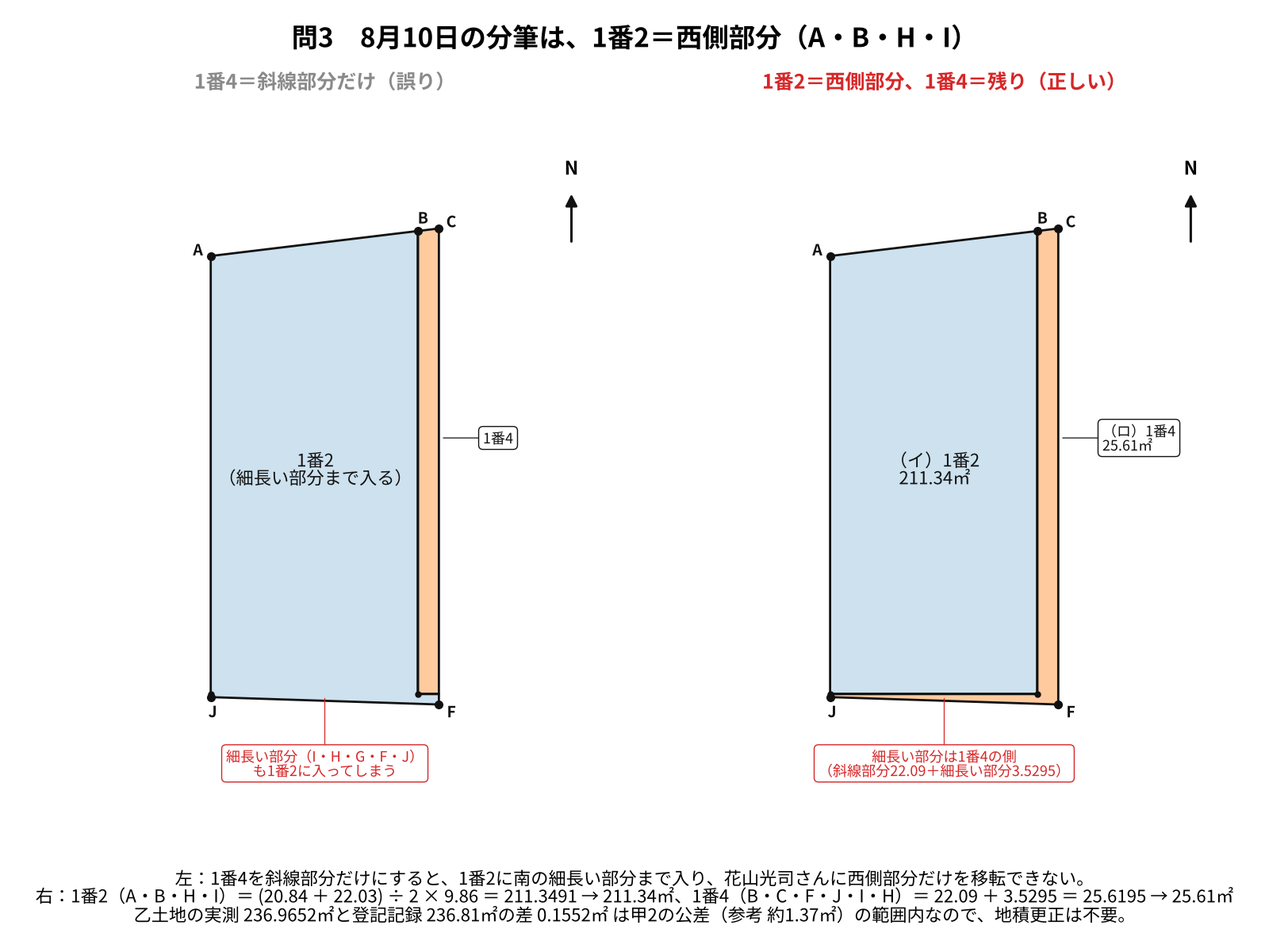
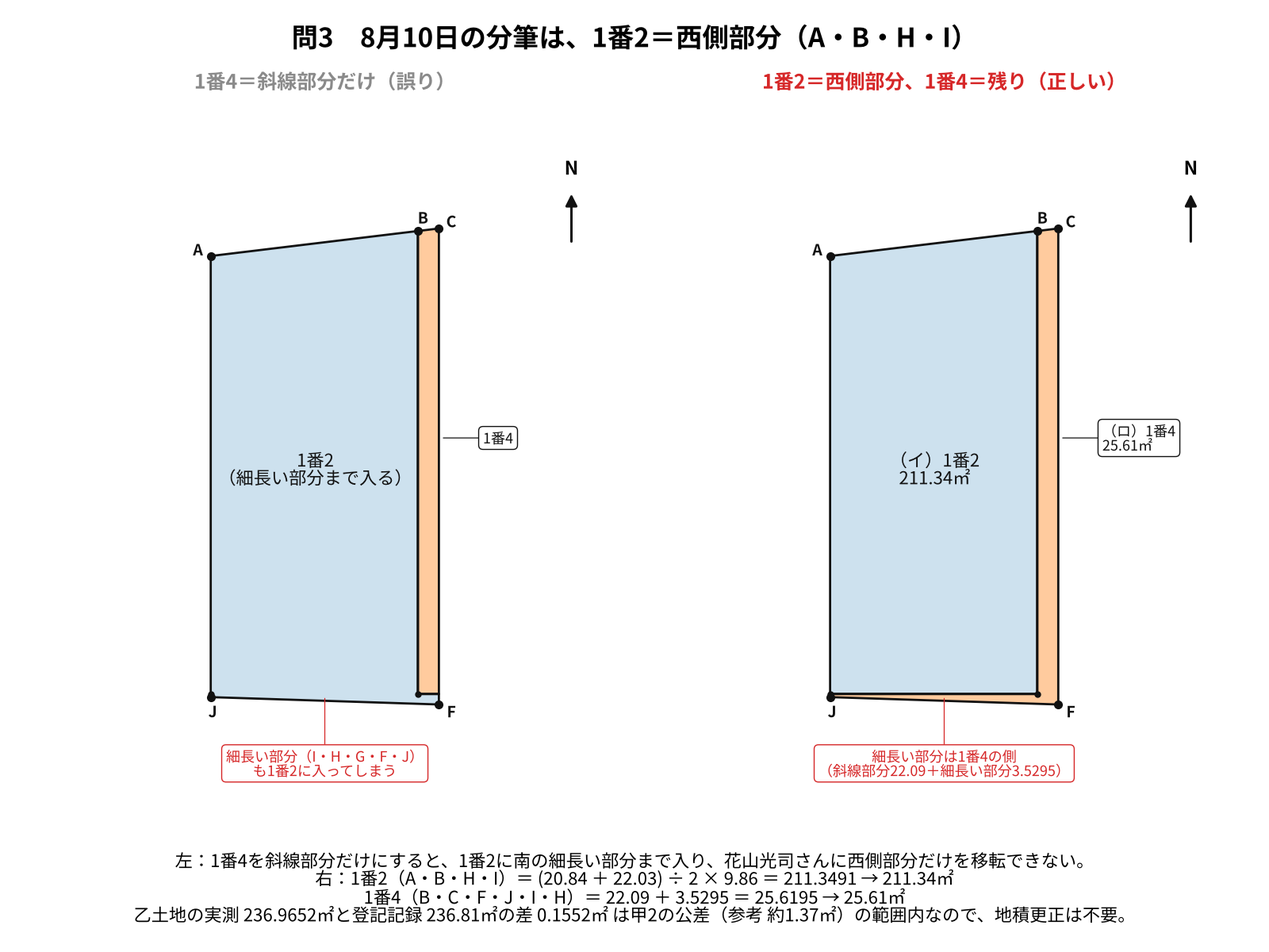
R5/Q21 品質チェックの知見を反映：チェックリスト6-2・6-3・§0と改善記録、README・CLAUDE.md、zu_helpersに説明文の長さ警告、図9の説明文を改行
Claude-Session: https://claude.ai/code/session_01Nmmm3CJ5ii4S7aGmHkd9qP

Changed region(s): [[0.0312, 0.8942, 0.9688, 0.9558]]

diff --git a/note-articles-Kijyutsu/R5/Q21/zu/draw_R5_dai21mon_kaisetsuzu.py b/note-articles-Kijyutsu/R5/Q21/zu/draw_R5_dai21mon_kaisetsuzu.py
@@ -219,7 +219,7 @@ ALL_PROBLEMS += save(fig, [z], 'R5_dai21mon_zu08_H_kousa.png')
 # =====================================================================
 fig, (ax1, ax2) = new_figure('問3　8月10日の分筆は、1番2＝西側部分（A・B・H・I）',
                              '左：1番4を斜線部分だけにすると、1番2に南の細長い部分まで入り、花山光司さんに西側部分だけを移転できない。\n'
-                             '右：1番2（A・B・H・I）＝ (20.84 ＋ 22.03) ÷ 2 × 9.86 ＝ 211.3491 → 211.34㎡、1番4（B・C・F・J・I・H）＝ 22.09 ＋ 3.5295 ＝ 25.6195 → 25.61㎡\n'
+                             '右：1番2（A・B・H・I）＝ (20.84 ＋ 22.03) ÷ 2 × 9.86 ＝ 211.3491 → 211.34㎡\n1番4（B・C・F・J・I・H）＝ 22.09 ＋ 3.5295 ＝ 25.6195 → 25.61㎡\n'
                              '乙土地の実測 236.9652㎡と登記記録 236.81㎡の差 0.1552㎡ は甲2の公差（参考 約1.37㎡）の範囲内なので、地積更正は不要。',
                              ncols=2)
 zs = []

diff --git a/note-articles-Kijyutsu/tools/zu_helpers.py b/note-articles-Kijyutsu/tools/zu_helpers.py
@@ -427,6 +427,12 @@ def new_figure(title, caption, w=16, h=12, dpi=100, ncols=1, width_ratios=None):
     fig.patch.set_facecolor('white')
     fig.suptitle(title, fontsize=24, weight='bold', y=0.975)
     fig.text(0.5, 0.03, caption, ha='center', va='bottom', fontsize=16, wrap=True)
+    # 説明文は日本語だと wrap=True でも折り返されず、長いと画像の端で切れる（2026-10-26、R5/Q21。図4・13・15で発生）。
+    # 全角換算で1行あたり約62字を超える行があれば警告する（超えたら自分で改行する）。
+    for ln in caption.split('\n'):
+        zen = sum(1.0 if (ord(ch) > 0x2E80 or ch in '（）「」、。') else 0.55 for ch in ln)  # 全角換算の字数
+        if zen * 16 * dpi / 72 > w * dpi * 0.97:
+            print(f'[説明文が長い] 1行が画像の幅をこえそう（全角換算{zen:.0f}字）：{ln[:30]}…')
     fig.subplots_adjust(left=0.03, right=0.97, top=0.90, bottom=0.12, wspace=0.08)
     return fig, (axes if ncols > 1 else [axes])
 

diff --git a/note-articles-Kijyutsu/qa-checklist-kijutsu.md b/note-articles-Kijyutsu/qa-checklist-kijutsu.md
@@ -23,7 +23,7 @@
 - 付属プロンプト：登記申請書画像プロンプト、解説図プロンプト
 - 問題PDF（全ページ）と答案用紙PDF
 - 予備校の解答例（アガルート等）
-- 作業環境（2026-10-08追加、R2/Q21・H29/Q21）：作図・画像の書き出しの前に、日本語フォント（`fc-list | grep -c "Noto Sans CJK"` が0なら `apt-get install -y fonts-noto-cjk` と `rm -rf ~/.cache/matplotlib`）、matplotlib・playwright・pymupdf、Chromium（`/opt/pw-browsers`）がそろっているか。`findfont: Failed to find font weight bold` が出たまま描いた図は、太字が細字になり重なりの検査も別のフォントで通っているので、入れてから描き直す
+- 作業環境（2026-10-08追加、R2/Q21・H29/Q21）：作図・画像の書き出しの前に、日本語フォント（`fc-list | grep -c "Noto Sans CJK"` が0なら `apt-get install -y fonts-noto-cjk` と `rm -rf ~/.cache/matplotlib`）、matplotlib・playwright・pymupdf、Chromium（`/opt/pw-browsers`）がそろっているか。`findfont: Failed to find font weight bold` が出たまま描いた図は、太字が細字になり重なりの検査も別のフォントで通っているので、入れてから描き直す。`import PIL` が `cannot import name '_imaging'` で落ちるときは、システムの dist-packages が古いPILで shadow している（2026-10-26、R5/Q21の新しいコンテナ）：`python3 -m pip install --ignore-installed --target /usr/local/lib/python3.11/dist-packages pillow` で入れ直す（素の `pip` は別のPythonに入るので、必ず `python3 -m pip`）
 
 **解答例の使い方の約束**
 
@@ -419,6 +419,10 @@
 
 5. **図を足したら、会話を足し、PNGの番号を挿入順に振り直す（2026-10-26、H20/Q21）**：図を会話の直後に置くために、(a) 1つのセリフの途中に図を入れたいときは、セリフを2つに分けて間に藍子（または先生）の一言を入れる（同じ話者の連続になるので、マーカーをはさむ連続は `lint_note_article.py` が違反にする）、(b) 計算の前に図を見せたいときは、図の後に藍子の一言（「式にまとめると、こうなりますか？」）を入れて計算に入る、(c) 図の位置が前後して、PNG名の番号が記事の挿入順と食い違ったら、`git mv` ではなく作図スクリプトのファイル名を入れ替えて描き直し、照合スクリプトの `ORDER` に「図番号（PNG名）が記事の順に1〜Nで並ぶ」検査を置く（H20/Q21の「代位原因の日付」と「代位の関係図」が逆になっていた）
 6. **図の中に足す数値・日付・番号は、確かめられたものだけにする（2026-10-26、H20/Q21）**：照らし直しで図を足すとき、問題の本文が手元にない（添付が答案用紙だけ、など）ことがある。そのとき図に書く値は、(a) 記事・照合スクリプト・付属プロンプトにすでにある値、(b) 手元の資料で確かめた値、のどちらかだけにする。「受付番号」「離婚の年」「公差の表の他の列」のように、自分が書いたのに出どころを確かめられない細部は図に入れない（H20/Q21では、新しい図に自分で書いた「順位2番・第234号」「昭和27年に離婚」「公差の表の甲3〜乙3の値」が出どころを確かめられず、目視で気づいて削った。表の確かめられない列は「…」で省略し、見出しに「省略」と書く）
+7. **数値の判断の図は、その判断に使う数値が会話に出そろった後に置く（2026-10-26、R5/Q21）**：地積更正の要否の数直線は、実測（Conjg の面積）・分筆後の合計（台形）・誤った筆界での面積の3つを並べる。旧版は「乙土地の実測→公差の判定→分筆後の面積」の順で、公差の図を置く位置が判断の途中になり、図の数値が会話より先に出るおそれがあった。**改善方法**：図に載る数値を全部列挙し、会話のどこで出るかを見て、いちばん遅く出る数値の後に図を置く。会話の順序を入れ替えて、PNGの番号（挿入順）と記事の順を合わせる（番号を付け替えるより会話を組み替える方が読みやすいことが多い）
+8. **照合スクリプトの `prev_line` は、マーカー直前の「発言（話者の行からマーカーまで）」を調べる（2026-10-26、R5/Q21）**：図は箇条書きの答え（ア〜エ）やコードブロック（式の羅列）の直後に置くことが多い。マーカーの直前の1行だけを見ると、`- **エ**：J点` や ```` ``` ```` に決め手の語がなく誤ってNGになる。話者の行（`**トリ先生**` など）からマーカーまでを連結して、決め手の語を探す。まとめの項目を数えるときは、まとめの章にある時間配分の箇条書き（`- **1**：…`）を除く
+9. **座標を使わない整理図（時系列・注の仕分け・表）は、本文の一次資料と照合してから描く（2026-10-26、R5/Q21）**：注の仕分けの表を作るとき、問題文の注の文言を自分で要約すると、「注1：適法に行われ…」のように意味を取り違えたり、調査図素図の注（図の下の注）を問題文の注と混ぜたりしやすい。試験問題の画像（`public/kijutsu/{年度}-tochi/`）で注の本文を実際に読み、要約が正しいか確かめてから図に載せる。時系列の日付も問題文で確かめる（R5/Q21では、4月1日の契約・5月31日の解体完了・8月31日の約束・9月20日の工事完了と抵当権の抹消申請・9月29日の抹消完了・10月16日の申請をすべて問題文の画像で確認した）
+
 ### 6-3. 画像そのものの決まり（機械で確かめる）
 
 - **図の画像に図番を表示しない**：作図スクリプトのタイトル文字列（`new_figure(`・`fixed_figure(`・`fig.suptitle(` の引数。`heikou_figure(` や、放射の図のように引数のリストの中に書いたタイトルも拾うこと。2026-10-26、H22/Q21で最初の一括置換が漏れた）と、申請書・添削画像のHTMLの見出しに「図1」「画像2」などの通し番号がないか。番号は管理用（PNGファイル名、解説図プロンプトの「図N：」一覧、作図スクリプト内の識別子）にだけ使う。図を足す・振り直すときは、既存の図のタイトルに残っていた図番も消して描き直し、図番を消した図のほかは再生成してバイト単位で変わっていないことを確かめる。照合スクリプトで、作図スクリプトのタイトルに「図N」が一つも残っていないことを確かめる
@@ -442,6 +446,10 @@
 - **固定配置の図（`card_fig` などの箱・矢印・帯の図）は、キャンバスの縦横比から出した高さ `yh` に合わせて置く（2026-10-26、H20/Q22）**：作図スクリプトの座標は、横を100として縦を `yh ＝ 100 × 描画領域の高さ ÷ 幅` で数える。旧版の図は「縦が約56」の前提で絶対座標（`y ＝ 12`・`y ＝ 1.2` など）を直に書いていたが、実際の `yh` は43で、赤い結論の帯が絵に重なり、文字が箱からはみ出していた（重なりの自動検査は固定配置の図を調べないので0件のまま）。**改善方法**：①`card_fig` の既定の高さは `h ＝ 11.6`（`yh` が約56）にそろえ、絶対座標を使うときも `yh` からの差で書く。②固定配置の図は、書き出したら**全部をPNGで開いて見る**（重なり・はみ出し・上下の大きな空きを目で確かめる）。③上の帯が絵の下に出るときは、絵の上端を `yh − 11` 付近から始めて絵の高さを先に足し算する。④矢印で長く指す引き出し線が絵を斜めに横切るときは、赤枠で囲んで「赤枠＝…」と下に書く形に変える
 - **原本の罫線の測り方（2026-10-26、H20/Q22）**：スキャンした答案用紙は罫線が細く傾いているので、「暗い画素が8割以上の列」では線を拾えない。**文字のない行の帯**（記入欄の行・見出しの下の行）を選び、帯の平均の明るさの列ごとの谷（両側9画素の平均より18以上暗い極小）を線とする。枠の外周（その3）は、中央の帯の列平均と、左側の帯の行平均の最小を、期待位置の±4mmの窓で探し、1mm以内で一致するかを確かめる。照合スクリプトは、申請書の列の境界（`cols(...)` の引数）が原本から測った値と3画素以内で一致することを確かめる
 - **1つのわなに図が2枚、1枚に2つのわなは作らない（2026-10-26、H20/Q22）**：まとめを1項目1わなに分けたとき、同じ話題に図が2枚（例：敷地権の持分の図と割合の添削画像）あるなら、項目も2つに分けて図と1対1にする
+- **`new_figure` の説明文（caption）が長すぎて画像の端で切れる（2026-10-26、R5/Q21。3枚で発生）**：日本語は `wrap=True` でも折り返されず、1行が全角で約70字を超えると左右が切れる。`tools/zu_helpers.py` の `new_figure` が、全角換算で1行が画像の幅をこえそうなときは `[説明文が長い]` と警告を出すようにした。書き出したら標準出力の警告を見て、長い行は自分で `\n` で改行する。警告は重なりの自動検査とは別に出るので、`grep -E "説明文が長い|重なりの合計"` で両方を確かめる
+- **固定配置の表の図は、行の高さを「最も行数の多いセル」に合わせて取り、表の下の文字は表の最下端から計算して置く（2026-10-26、R5/Q21）**：注の仕分けの表の2つ目の表が、下の説明文にめり込んだ。表の行数が増えたら、行の高さを小さくするか、図の高さ（`board(h)` の h）を大きくする。土地の表示の5行の表は3行分のセルがあるので、行の高さを11・間隔12にして、文字が枠に触れないようにした
+- **作図スクリプトの `callout` は、点が図の端に近いと吹き出しが範囲の外に出る**：`fit` の `margin` を大きくし、`dirs` に図の内側（余白の広い側）の向きを先に並べる。R5/Q21では、東端のG点の吹き出しが範囲外になり、`margin=0.45`・`dirs=(-30,-50,-70,0)` で収まった。2点が近い辺長の数値（JI 0.15）は辺の中点に重なるので `callout` で外へ出す
+- **旧ルールの違反が残る土地の年度（2026-10-26 時点）**：作図スクリプトのタイトルに「図N」が残る年度は、H25（ユーザー指示で残す）・H26・H27・H28・H30・R1・R3・R4・R6。照らし直すときに、タイトルの図番を消して描き直し、照合スクリプトの図番を要求する逆向きの検査を直す（R5/Q21は2026-10-26に直した）
 
 ## 7. note表記ルールを確認する
 
@@ -492,6 +500,15 @@
 ## 改善記録（PDCA）
 
 チェックで見つかった誤りの種類と、指示書・執筆プロンプトへの反映を記録する。新しい記録は上に追加する。
+
+**2026-10-26　R5/Q21（土地・会話形式）を最新のチェック項目（6-2・6-3）で品質チェックし、足りない図を足した（ユーザー指示）**
+
+- 指示：「qa-checklist-kijutsu.md チェックの指示書に従って、品質チェックを実施してください。不足している画像は作成してgithubに保存してください。図を追加した場合は挿入する位置に応じて解説の会話を追加したり、説明の会話の区切り位置を調整したりして、スムーズに読者が理解でき、計算過程も図と連動して明快にわかるようにしてください。今回の改善過程で得られた知見や新たらしい対象法は、PDCAをまわして、有効なものはチェック指示書に追記して、自動更新するようにしてください。」（添付：R5の答案用紙PDF。年度の指定はなく、添付からR5/Q21と判断した）
+- 旧版（2026-09-29作成・追加作業済み）の状態：解説図10枚・添削1・完成形4（マーカー15か所）。見つかった不足と不具合：①10枚すべてのタイトルに作成当時の「図N」が画像に焼き込まれていた（2026-10-07〜08のルール違反。この年度の照合スクリプトも「図番が1〜10で揃う」ことを要求する逆向きの検査になっていなかったのは、そもそも図番を検査していなかったため）。②まとめが8項目で、2つのわなを1項目に書いたもの（「地積の端数は注9、335＋22.09も実測の357.70も誤り」「合筆の添付書類、登録免許税は2個」など）があった。会話の直後に専用の図がなかった論点が11：全体の時系列、注の仕分け、合筆で消えた中間の点は足して比べる、分筆後の面積を台形で出す、地積更正の要否（公差）、地積測量図に書くもの・書かないもの、G点は8月に描かない、1番4を丸ごと合筆しない（分合筆）、10月の時系列（地目変更を同じ申請に）、1番1の地積の誤り2つ（335＋22.09、実測357.70）、登録免許税の数え方、土地の表示5行。③添削画像が「添付書類」と「土地の表示の最終行」の2欄を1枚に詰めていた（6-3「添削画像は欄ごとに1枚」違反）。④申請書の画像の列の幅・行の高さを答案用紙の原本から測っていなかった（目分量）。⑤地積測量図の完成見本が答案用紙の第3欄の枠（地番・土地の所在の欄、作成者・申請人の印刷）の中に描かれていなかった。⑥照合スクリプトに、わな→図の対応表（TRAPS）・電卓キー列の再現・答案用紙の原本の実測がなかった。
+- 直したこと：解説図を21枚（マーカー＝PNG 26か所）にし、記事の挿入順にzu01〜zu21へ振り直した。既存の10枚はタイトルから図番を消して描き直し、新しい11枚を足した。会話は、注の仕分け（藍子が「番号がかぶっていて……」と聞く）、台形と公差の順序の組み替え（実測→台形で分筆後の面積→図→地積更正の判断→数直線）、G点（藍子が「描かなくていいんですね」と確かめる）、分合筆・地目の時系列（期限は10月20日）・地積の端数・登録免許税の各図を、誤答→訂正→図→言い直しの順で置いた。藍子の注の言い直しは「問題文の注3」「調査図素図の注1〜3」と書き分けた。まとめを1項目1わなの16項目にして、照合スクリプトのTRAPSで図の位置と、図の直前の発言にある決め手の語まで確かめる形にした。地積測量図は答案用紙の第3欄の枠（302mm×231mm、1/250で1m＝4mm）の中に実寸で描き直した。申請書・欄の画像は、列の幅（5.9・18.2・14.7・14.7・10・36.5％。原本の罫線から測定）と行の高さを答案用紙の比にそろえ、枠の高さを `min-height` にし、画像の中の「第○欄」の見出しをなくした。添削画像は「添付書類」だけにした（地積の誤りは専用の解説図が受け持つ）。
+- 作成誤りの原因と対処：①`new_figure` の説明文が長すぎて、図4・13・15で画像の左右が切れた（6-3に追記し、`tools/zu_helpers.py` の `new_figure` に長すぎる行の警告を足した）。②注の仕分けの2つ目の表が下の説明文にめり込んだ（行の高さを小さくした。6-3に追記）。③東端のG点の吹き出しが範囲外になった（`margin`・`dirs` の調整。6-3に追記）。④最初の図案に「答案用紙の『地積』の欄に『（略）』の印刷はない」という、答案用紙の原本で確かめた事実だが図の趣旨と関係のない文を書いていたので削った（図に足すのは本文の根拠になる事実だけにする）。⑤新しいコンテナで `import PIL` が壊れていた（§0に対処を追記）。
+- 照合スクリプト：画像の中に図番がないこと・PNGが記事の順に1〜21で並ぶこと・TRAPSの直前の発言・答案用紙の原本から測った土地の表示の列の境と枠の寸法・`min-height`・電卓キー列5表示の再現・セリフの長さを追加した（NG 0件、重なりの自動検査0件、21枚すべて目視確認）。答え・計算は変えていない。
+- 反映：6-2に7・8・9（数値の判断の図を置く位置、`prev_line` の見方、整理図は一次資料と照合）、6-3に説明文の警告・固定配置の表の行の高さ・`callout` の範囲・旧ルール違反が残る年度の一覧を追加し、§0に環境の対処を追記した。旧ルール違反が残る土地の年度は、R5を除く9年度（H25〈ユーザー指示で残す〉・H26・H27・H28・H30・R1・R3・R4・R6）になった。
 
 **2026-10-26　H20/Q22（建物）を最新のチェック項目（6-2・6-3）で品質チェックし、足りない図を足した（ユーザー指示）**
 

diff --git a/note-articles-Kijyutsu/README.md b/note-articles-Kijyutsu/README.md
@@ -11,7 +11,7 @@
 保存先の階層構造、`qa-checklist-kijutsu.md` によるダブルチェック、`main` へのコミットという運用は両方共通です。
 
 **全年度の照らし直し（2026-10-02）**：会話形式の全36記事（第21問・第22問の H20〜R7）を、その時点の最新の執筆プロンプト・チェックリストに照らして更新した。どの年度も、記事の画像挿入マーカー（note見出し画像を除く）と `zu/` のPNGが記事の順に1対1で対応し、照合スクリプトがそれを確かめる。下のフォルダ構成の各年度の「解説図○枚」などの枚数はこの照らし直しの前の記述のことがあるので、今の枚数（マーカー＝PNGの数）はこちらを正とする。
-- 第21問：H20 31、H21 31、H22 30、H23 29、H24 21、H25 25、H26 22、H27 15、H28 15、H29 24、H30 15、R1 17、R2 22、R3 16、R4 17、R5 15、R6 17、R7 28、R8 33
+- 第21問：H20 31、H21 31、H22 30、H23 29、H24 21、H25 25、H26 22、H27 15、H28 15、H29 24、H30 15、R1 17、R2 22、R3 16、R4 17、R5 26、R6 17、R7 28、R8 33
 - 第22問：H20 37、H21 24、H22 28、H23 26、H24 21、H25 27、H26 19、H27 12、H28 12、H29 20、H30 12、R1 11、R2 22、R3 12、R4 12、R5 12、R6 12、R7 27、R8 26（R8は2026-10-18に自力で解いて作成し、2026-10-20にアガルートの解答例〈答案用紙の再現つき〉と照合。2026-10-21に建物図面を説明図と記入の完成形の2枚に分けた）（2026-10-08の照らし直しで、R7は解説図4枚・添削3枚〈2026-10-26にさらに解説図9枚〉、H29は解説図7枚・添削2枚を足した。2026-10-16にH25は解説図3枚・添削3枚を足した）
 
 ## フォルダ構成
@@ -292,12 +292,12 @@ note-articles-Kijyutsu/
 ├── R5/
 │   ├── Q21/
 │   │   ├── note_R5_dai21mon_tochi_kaiwa_kaisetsu.md     note記事本文（会話形式。アガルート解答例と照合済み）
-│   │   ├── prompt_R5_dai21mon_kaiwa_kaisetsuzu.md       解説図8枚（全体図・筆界点F/Jの比較・B点・H点・分筆の区画の比較・地積測量図・分合筆・職権の分合筆）作成プロンプト（土地の基本フォームの記入済み）
+│   │   ├── prompt_R5_dai21mon_kaiwa_kaisetsuzu.md       解説図21枚（時系列・全体図・注の仕分け・足して比べる・筆界点F/Jの比較・B点とその別解・H点・分筆の区画の比較・台形の面積・公差・書く書かない・G点・地積測量図〈答案用紙の第3欄の枠〉・分合筆・10月の時系列・地積の端数・登録免許税・土地の表示5行・職権の分合筆・解く順番）作成プロンプト（土地の基本フォームの記入済み）
 │   │   ├── prompt_R5_dai21mon_toukishinseisho_gazou.md  登記申請書画像プロンプト（完成形。地目変更・分合筆）
-│   │   ├── prompt_R5_dai21mon_toukishinseisho_machigai.md  登記申請書「添付書類」欄と分合筆後の1番1の行の誤答→添削→正解の画像プロンプト（3コマを縦に積む）
+│   │   ├── prompt_R5_dai21mon_toukishinseisho_machigai.md  登記申請書「添付書類」欄の誤答→添削→正解の画像プロンプト（3コマを縦に積む）
 │   │   ├── prompt_R5_dai21mon_miidashi_gazou.md          note見出し画像（サムネイル）作成プロンプト（1280×670px）
 │   │   ├── verify_R5_dai21mon_kaiwa.py                  記事・付属プロンプトの数値・体裁の照合スクリプト
-│   │   └── zu/                                          解説図8枚のPNGと作図スクリプト draw_R5_dai21mon_kaisetsuzu.py、登記申請書の完成形・添削画像（縦3コマ）のPNG・HTMLと生成スクリプト make_R5_dai21mon_shinseisho_gazou.py
+│   │   └── zu/                                          解説図21枚のPNGと作図スクリプト draw_R5_dai21mon_kaisetsuzu.py、登記申請書の完成形・添削画像（縦3コマ）・第1欄・第2欄・第5欄のPNG・HTMLと生成スクリプト make_R5_dai21mon_shinseisho_gazou.py、答案用紙の原本 touan_youshi/
 │   └── Q22/
 │       ├── note_R5_dai22mon_tatemono_kaisetsu.md              note記事本文（会話形式。アガルート解答例と照合済み）
 │       ├── prompt_R5_dai22mon_kaisetsuzu.md                   解説図8枚（解く順番・敷地辺長図・建物図面の完成形〈答案用紙の第3欄の枠〉・誤り比較図・1階/2階求積図・各階平面図の完成形〈同〉・工事前後比較図）作成プロンプト
